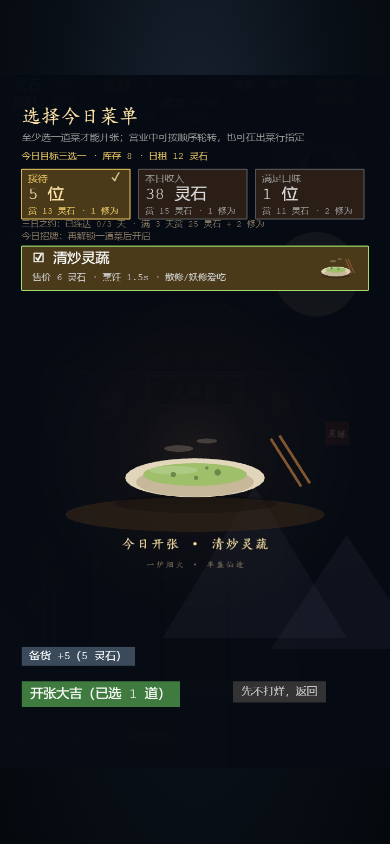
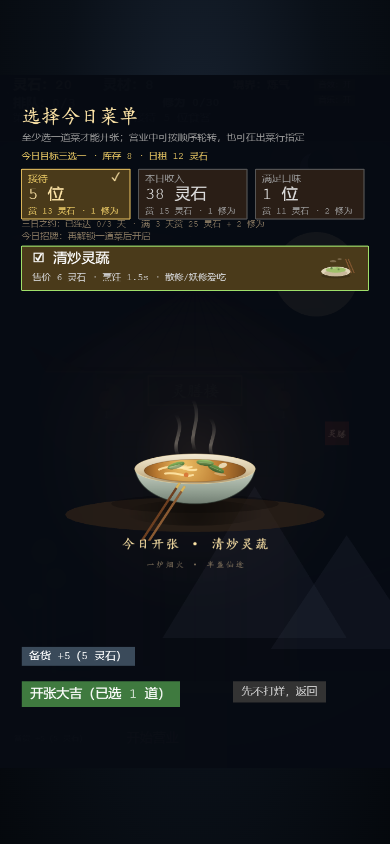
Canvas 手绘灵膳大碗进菜单

Changed region(s): [[0.3077, 0.4929, 0.6769, 0.6469], [0.7077, 0.5237, 0.8, 0.5853]]

diff --git a/src/main.ts b/src/main.ts
@@ -1299,6 +1299,7 @@ class TavernScene extends Phaser.Scene {
     const hadSave = this.loadSave();
     this.ensureGlowTexture();
     this.ensurePaperTextures();
+    this.ensureDishTexture();
     this.booths = Array.from({ length: getBoothCount(this.level) }, () => this.makeBooth());
     if (this.selectedDishIds.size === 0) {
       this.selectedDishIds = new Set(DISHES.filter((d) => d.unlockLevel <= this.level).map((d) => d.id));
@@ -1386,6 +1387,145 @@ class TavernScene extends Phaser.Scene {
         vig.refresh();
       }
     }
+  }
+
+  /** 一张手绘感的灵膳大碗：菜单空桌时用它，比几何椭圆更像“菜”。 */
+  private ensureDishTexture() {
+    if (this.textures.exists("dish-feast")) return;
+    const tex = this.textures.createCanvas("dish-feast", 512, 512);
+    if (!tex) return;
+    const c = tex.getContext();
+    c.clearRect(0, 0, 512, 512);
+    // 桌面投影
+    const shadow = c.createRadialGradient(256, 430, 20, 256, 430, 200);
+    shadow.addColorStop(0, "rgba(0,0,0,0.42)");
+    shadow.addColorStop(1, "rgba(0,0,0,0)");
+    c.fillStyle = shadow;
+    c.beginPath();
+    c.ellipse(256, 430, 205, 38, 0, 0, Math.PI * 2);
+    c.fill();
+    // 陶碗外壁
+    const bowl = c.createLinearGradient(0, 285, 0, 445);
+    bowl.addColorStop(0, "#d8ded2");
+    bowl.addColorStop(0.45, "#9aa89a");
+    bowl.addColorStop(1, "#4d5a50");
+    c.fillStyle = bowl;
+    c.beginPath();
+    c.moveTo(78, 300);
+    c.bezierCurveTo(102, 438, 410, 438, 434, 300);
+    c.closePath();
+    c.fill();
+    c.strokeStyle = "rgba(40,48,42,0.65)";
+    c.lineWidth = 3;
+    c.stroke();
+    // 碗沿
+    const rim = c.createLinearGradient(0, 255, 0, 350);
+    rim.addColorStop(0, "#f3ead4");
+    rim.addColorStop(0.5, "#d9c9a6");
+    rim.addColorStop(1, "#a58a5f");
+    c.fillStyle = rim;
+    c.beginPath();
+    c.ellipse(256, 300, 178, 44, 0, 0, Math.PI * 2);
+    c.fill();
+    c.strokeStyle = "rgba(255,230,170,0.55)";
+    c.lineWidth = 2;
+    c.stroke();
+    // 汤
+    const soup = c.createRadialGradient(220, 286, 12, 256, 310, 170);
+    soup.addColorStop(0, "#e8b85f");
+    soup.addColorStop(0.55, "#b8782f");
+    soup.addColorStop(1, "#6d431c");
+    c.fillStyle = soup;
+    c.beginPath();
+    c.ellipse(256, 305, 150, 33, 0, 0, Math.PI * 2);
+    c.fill();
+    c.strokeStyle = "rgba(80,40,10,0.35)";
+    c.lineWidth = 2;
+    c.stroke();
+    // 面/汤面弧线
+    c.lineCap = "round";
+    c.strokeStyle = "rgba(255,229,166,0.9)";
+    c.lineWidth = 6;
+    for (const [sx, sy, dx, dy] of [
+      [150, 302, 96, -8],
+      [168, 314, 82, 4],
+      [190, 296, 70, 6],
+    ] as const) {
+      c.beginPath();
+      c.moveTo(sx, sy);
+      c.bezierCurveTo(sx + dx * 0.4, sy + dy - 10, sx + dx * 0.75, sy + dy + 8, sx + dx, sy + dy);
+      c.stroke();
+    }
+    // 青菜与配菜
+    const leaf = (x: number, y: number, rot: number, color: string) => {
+      c.save();
+      c.translate(x, y);
+      c.rotate(rot);
+      const grd = c.createLinearGradient(0, -10, 0, 10);
+      grd.addColorStop(0, color);
+      grd.addColorStop(1, "rgba(40,80,40,0.85)");
+      c.fillStyle = grd;
+      c.beginPath();
+      c.ellipse(0, 0, 26, 9, 0, 0, Math.PI * 2);
+      c.fill();
+      c.strokeStyle = "rgba(220,240,190,0.4)";
+      c.lineWidth = 1.5;
+      c.beginPath();
+      c.moveTo(-18, 0);
+      c.lineTo(18, 0);
+      c.stroke();
+      c.restore();
+    };
+    leaf(200, 290, -0.3, "#8fbf62");
+    leaf(318, 300, 0.4, "#6fa64e");
+    leaf(286, 282, 0.1, "#a8d878");
+    // 菌片与胡萝卜
+    c.fillStyle = "#e8d6b0";
+    c.beginPath();
+    c.ellipse(338, 290, 13, 7, -0.3, 0, Math.PI * 2);
+    c.fill();
+    c.fillStyle = "#d97a3a";
+    c.beginPath();
+    c.arc(230, 318, 7, 0, Math.PI * 2);
+    c.fill();
+    // 油光
+    c.fillStyle = "rgba(255,244,210,0.35)";
+    c.beginPath();
+    c.ellipse(205, 294, 28, 5, -0.1, 0, Math.PI * 2);
+    c.fill();
+    c.beginPath();
+    c.ellipse(330, 316, 18, 4, 0.2, 0, Math.PI * 2);
+    c.fill();
+    // 筷子
+    c.save();
+    c.rotate(0.58);
+    c.fillStyle = "#6d3f20";
+    c.fillRect(360, 170, 7, 210);
+    c.fillStyle = "#8a5a32";
+    c.fillRect(378, 170, 7, 210);
+    c.fillStyle = "#d9b45a";
+    c.fillRect(360, 170, 7, 18);
+    c.fillRect(378, 170, 7, 18);
+    c.restore();
+    // 热气：柔边曲线
+    c.lineCap = "round";
+    for (const [sx, sy, h] of [
+      [206, 260, 120],
+      [256, 246, 150],
+      [308, 262, 110],
+    ] as const) {
+      const steam = c.createLinearGradient(0, sy, 0, sy - h);
+      steam.addColorStop(0, "rgba(255,240,215,0.0)");
+      steam.addColorStop(0.3, "rgba(255,240,215,0.32)");
+      steam.addColorStop(1, "rgba(255,240,215,0)");
+      c.strokeStyle = steam;
+      c.lineWidth = 10;
+      c.beginPath();
+      c.moveTo(sx, sy);
+      c.bezierCurveTo(sx - 22, sy - h * 0.35, sx + 24, sy - h * 0.6, sx - 6, sy - h);
+      c.stroke();
+    }
+    tex.refresh();
   }
 
   private buildSceneGrade() {
@@ -3859,7 +3999,6 @@ class TavernScene extends Phaser.Scene {
     if (available.length <= 3) {
       const showcase = special ?? available[0];
       const showcaseName = showcase?.name ?? "一炉烟火";
-      const soup = special ? 0xd9b45a : 0x9fbf6a;
       layer.add(
         this.add
           .image(360, 700, "soft-glow")
@@ -3868,35 +4007,13 @@ class TavernScene extends Phaser.Scene {
           .setScale(2.4)
           .setBlendMode(Phaser.BlendModes.ADD),
       );
-      const dishArt = this.add.graphics();
-      dishArt.fillStyle(0x3a2818, 0.55);
-      dishArt.fillEllipse(360, 812, 480, 64);
-      dishArt.fillStyle(0x000000, 0.25);
-      dishArt.fillEllipse(360, 792, 300, 34);
-      dishArt.fillStyle(0xe8dcc0, 0.97);
-      dishArt.fillEllipse(360, 744, 258, 72);
-      dishArt.fillStyle(0xc8b89a, 1);
-      dishArt.fillEllipse(360, 752, 218, 54);
-      dishArt.fillStyle(soup, 1);
-      dishArt.fillEllipse(360, 738, 192, 42);
-      dishArt.fillStyle(0xffffff, 0.16);
-      dishArt.fillEllipse(320, 730, 90, 16);
-      for (const [gx, gy, r] of [
-        [320, 738, 5],
-        [362, 744, 4],
-        [402, 734, 6],
-        [382, 726, 3],
-      ] as const) {
-        dishArt.fillStyle(0x6a8a4a, 1);
-        dishArt.fillCircle(gx, gy, r);
-      }
-      dishArt.lineStyle(5, 0x8a5a32, 0.95);
-      dishArt.lineBetween(500, 672, 556, 760);
-      dishArt.lineBetween(516, 666, 572, 754);
-      dishArt.fillStyle(0xffe6c8, 0.2);
-      dishArt.fillEllipse(330, 690, 54, 12);
-      dishArt.fillEllipse(382, 676, 38, 9);
-      layer.add(dishArt);
+      const mat = this.add.graphics();
+      mat.fillStyle(0x3a2818, 0.55);
+      mat.fillEllipse(360, 812, 480, 64);
+      mat.fillStyle(0x000000, 0.25);
+      mat.fillEllipse(360, 792, 310, 34);
+      layer.add(mat);
+      layer.add(this.add.image(360, 700, "dish-feast").setDisplaySize(320, 320));
       layer.add(
         this.add
           .text(360, 866, `今日开张 · ${showcaseName}`, {

diff --git a/docs/playtest.md b/docs/playtest.md
@@ -17,7 +17,7 @@
 - **每日目标三选一**：菜单页并列「接待 / 本日收入 / 口味」三张卡，玩家按今日菜单和库存自己挑；默认仍按天轮换。奖励按目标类型略有差异，并保留「基础灵石 + 当日收入 15%」与 60% 半赏。
 - **日租**：每天结算扣店面租金（Lv1 12 灵石，每级 +4），结算单列「店面租金」，净收益同步扣除。固定成本让流水有了底线压力，也给“今天接多少客”一个可比较的答案。
 - **营业中减负与字号**：状态栏高度 124；主数值 26px、排队 24px、目标 25px、营业行 21px；见闻录与音效/音乐开关在营业中收起，打烊后再出现，主屏不再被日志和按钮挤占。
-- **打烊页与菜单重排**：打烊页的 8 个事务入口从一行行小字改成 2×4 大卡片（整卡可点、暖色经营组 / 冷色查阅组，26px 主字 + 一行副标题）；菜单的三选一目标改成「大数字 + 奖励」卡片，菜名 26px、详情 17px、开张按钮 24px；营造与伙计页的正文字号同步上调。菜单右下加一层很淡的月、远山与朱印水印，填空黑但不抢字；每道菜右侧加一个程序绘制的小碗（汤色、配料、筷子与热气），菜单至少有“菜”。菜少于 4 道时，中段再放一只大汤碗、竹筷、桌面与热气，写「今日开张 · 菜名」，把早期菜单的大块空黑变成一张摆盘。
+- **打烊页与菜单重排**：打烊页的 8 个事务入口从一行行小字改成 2×4 大卡片（整卡可点、暖色经营组 / 冷色查阅组，26px 主字 + 一行副标题）；菜单的三选一目标改成「大数字 + 奖励」卡片，菜名 26px、详情 17px、开张按钮 24px；营造与伙计页的正文字号同步上调。菜单右下加一层很淡的月、远山与朱印水印，填空黑但不抢字；每道菜右侧加一个程序绘制的小碗（汤色、配料、筷子与热气），菜单至少有“菜”。菜少于 4 道时，中段再放一只 Canvas 手绘的大汤碗（陶碗渐变、汤色、面/菜叶/菌片、筷子与三缕热气）、桌面投影，写「今日开张 · 菜名」，把早期菜单的大块空黑变成一张摆盘。
 - **结算页先给结论**：面板顶部先放 54px 的「今日净收益 +188 灵石」，下面一行「服务 20 位 · 收入 200 · 支出 12」与目标/三日之约状态；明细只留下成本与余额。遮罩从只盖主屏改成全屏 58% 黑，底栏一起压暗；「打烊」改成 544px 通栏绿色按钮，写「打烊 · 进入第 N 日」。净收益不再埋在第 10 行。
 - **HUD 与右墙**：主数值/排队/目标从青、紫、荧光绿收进暖金、米白、玉色，顶部四块淡底把资源 / 境界 / 排队 / 进度分组；营业镜头右缘的墙从 360 延到 430，封住原来漏出的天空蓝条；每桌小烛加 0.6 倍暖光晕与明暗呼吸。人物放大到 1.22 倍、加一层很薄的暖背光，气泡字号 18→20px，让门口和桌边的人先被看见。
 - **明日预告**：结算单列「明日：天气 · 招牌 · 目标可自选」，给下一次开门一个具体的期待；换日时保留玩家上一次选中的目标类型。
